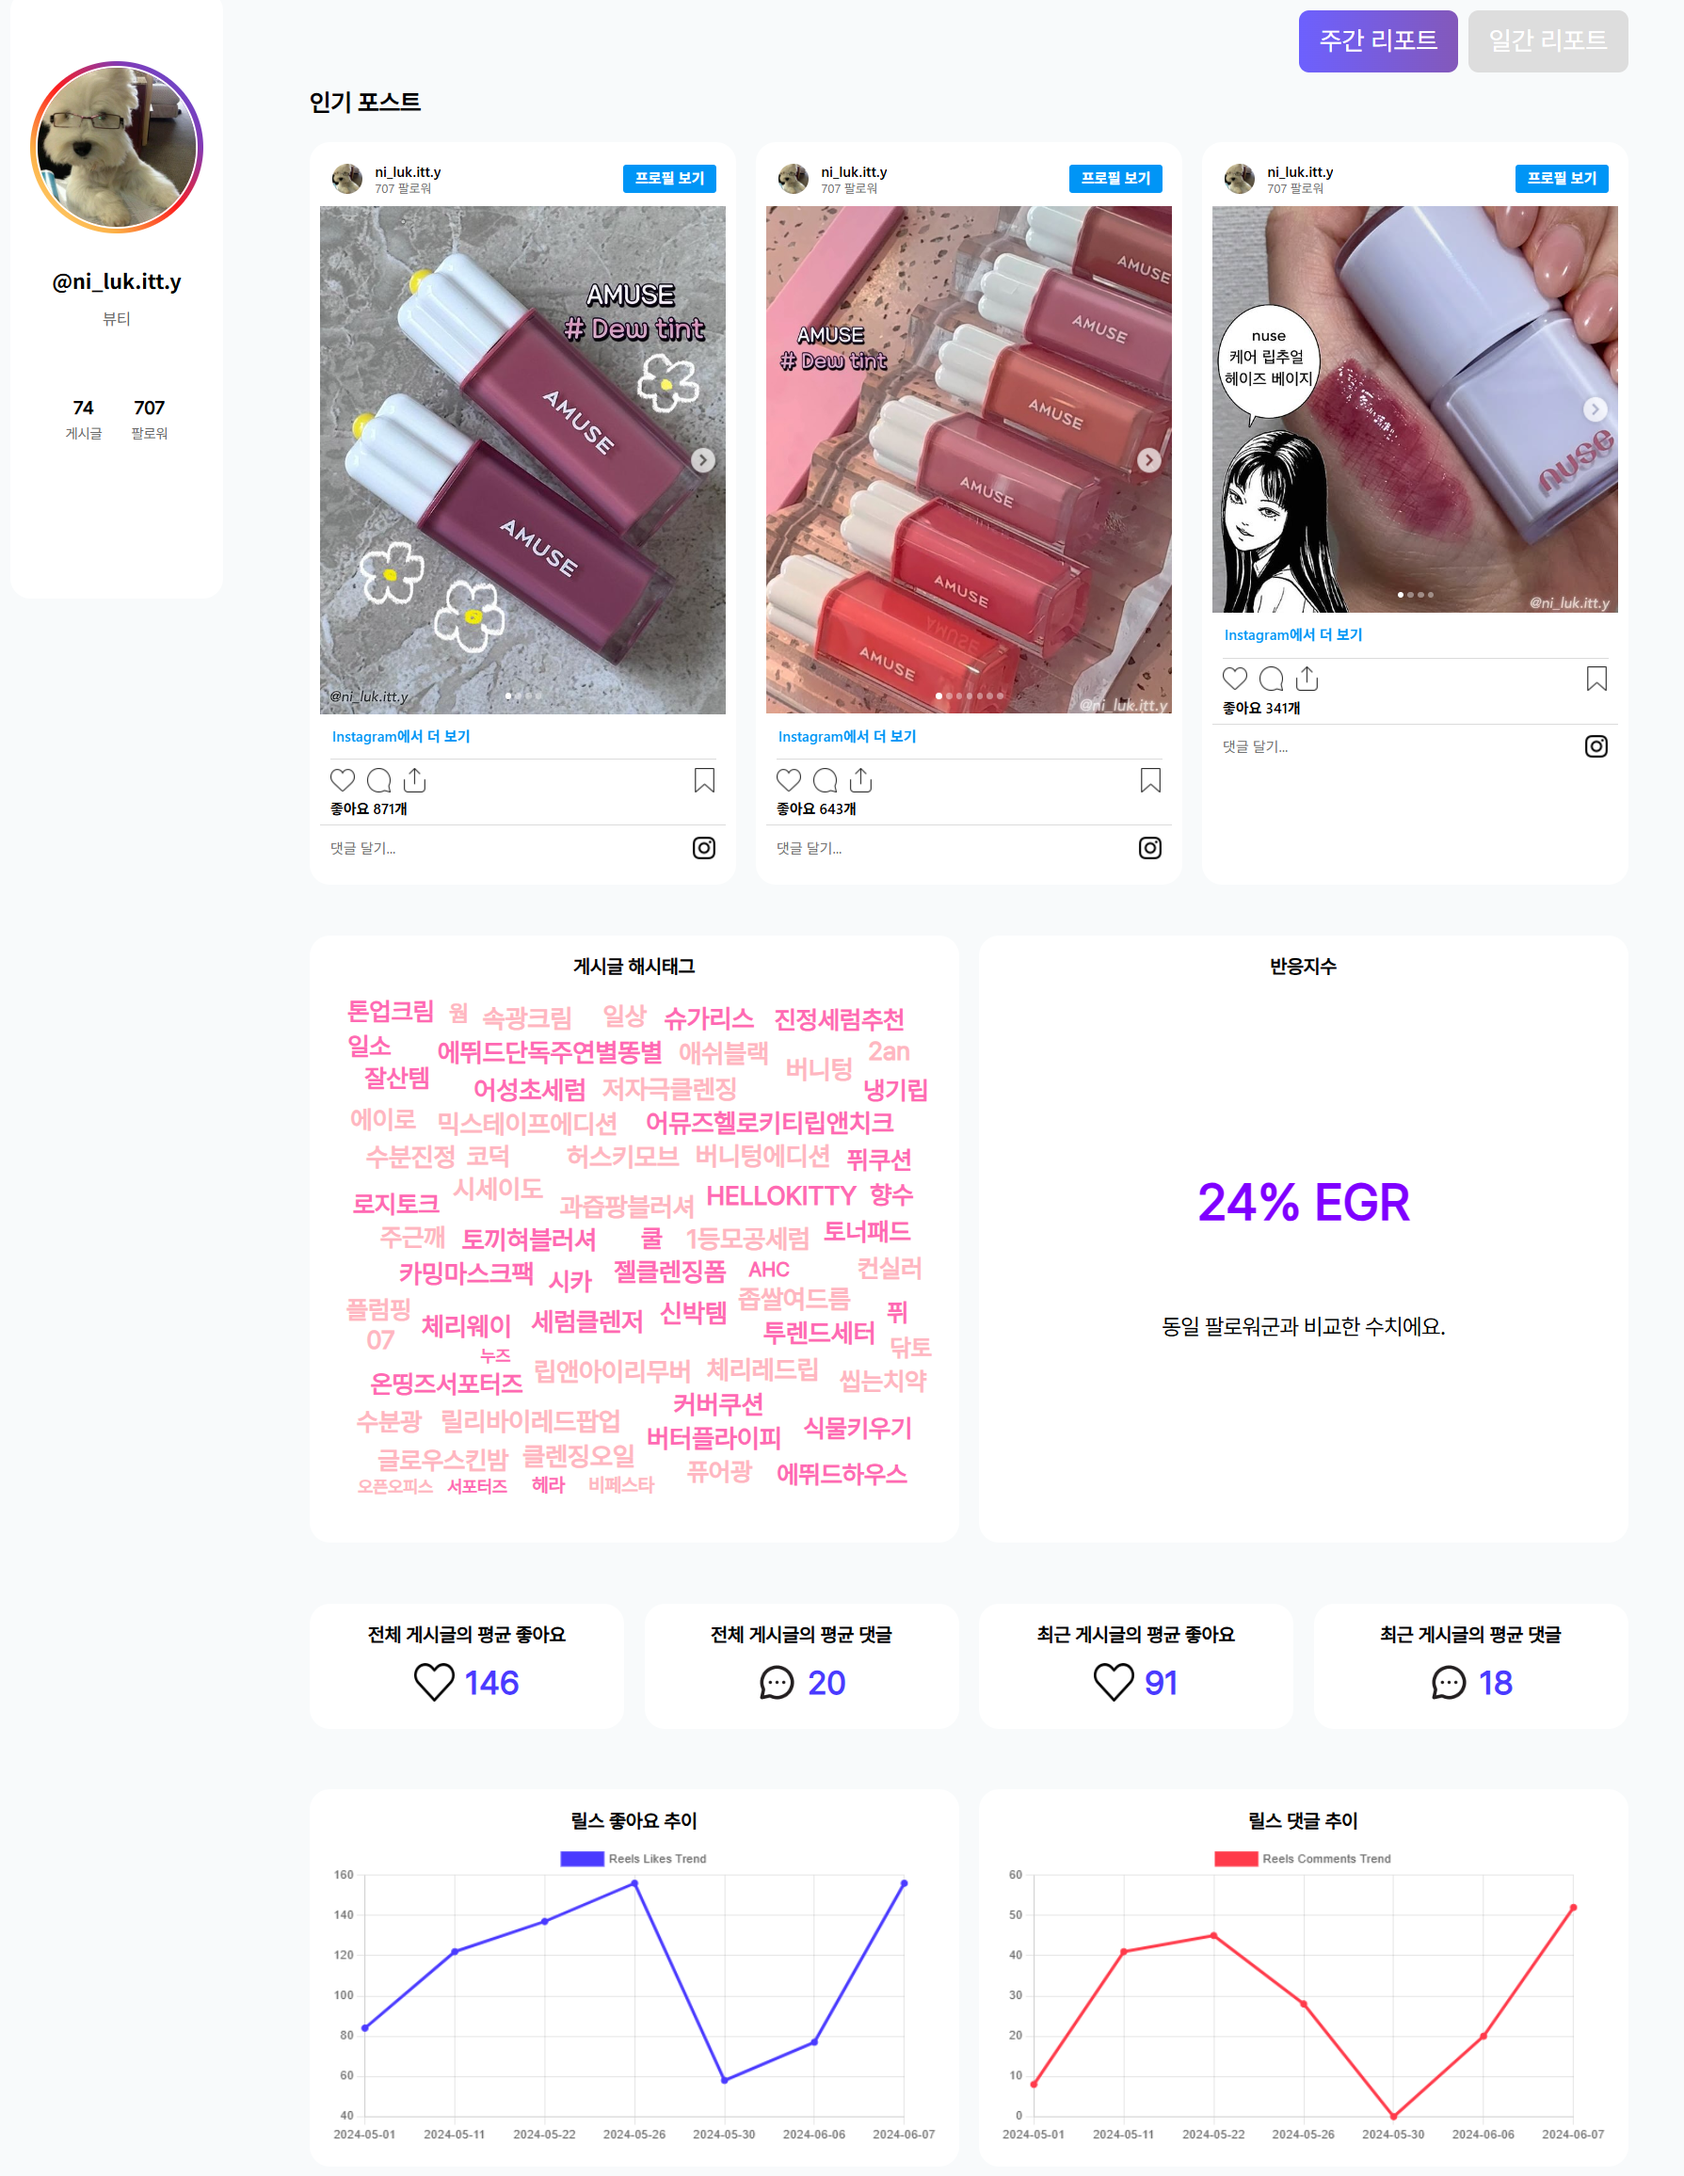
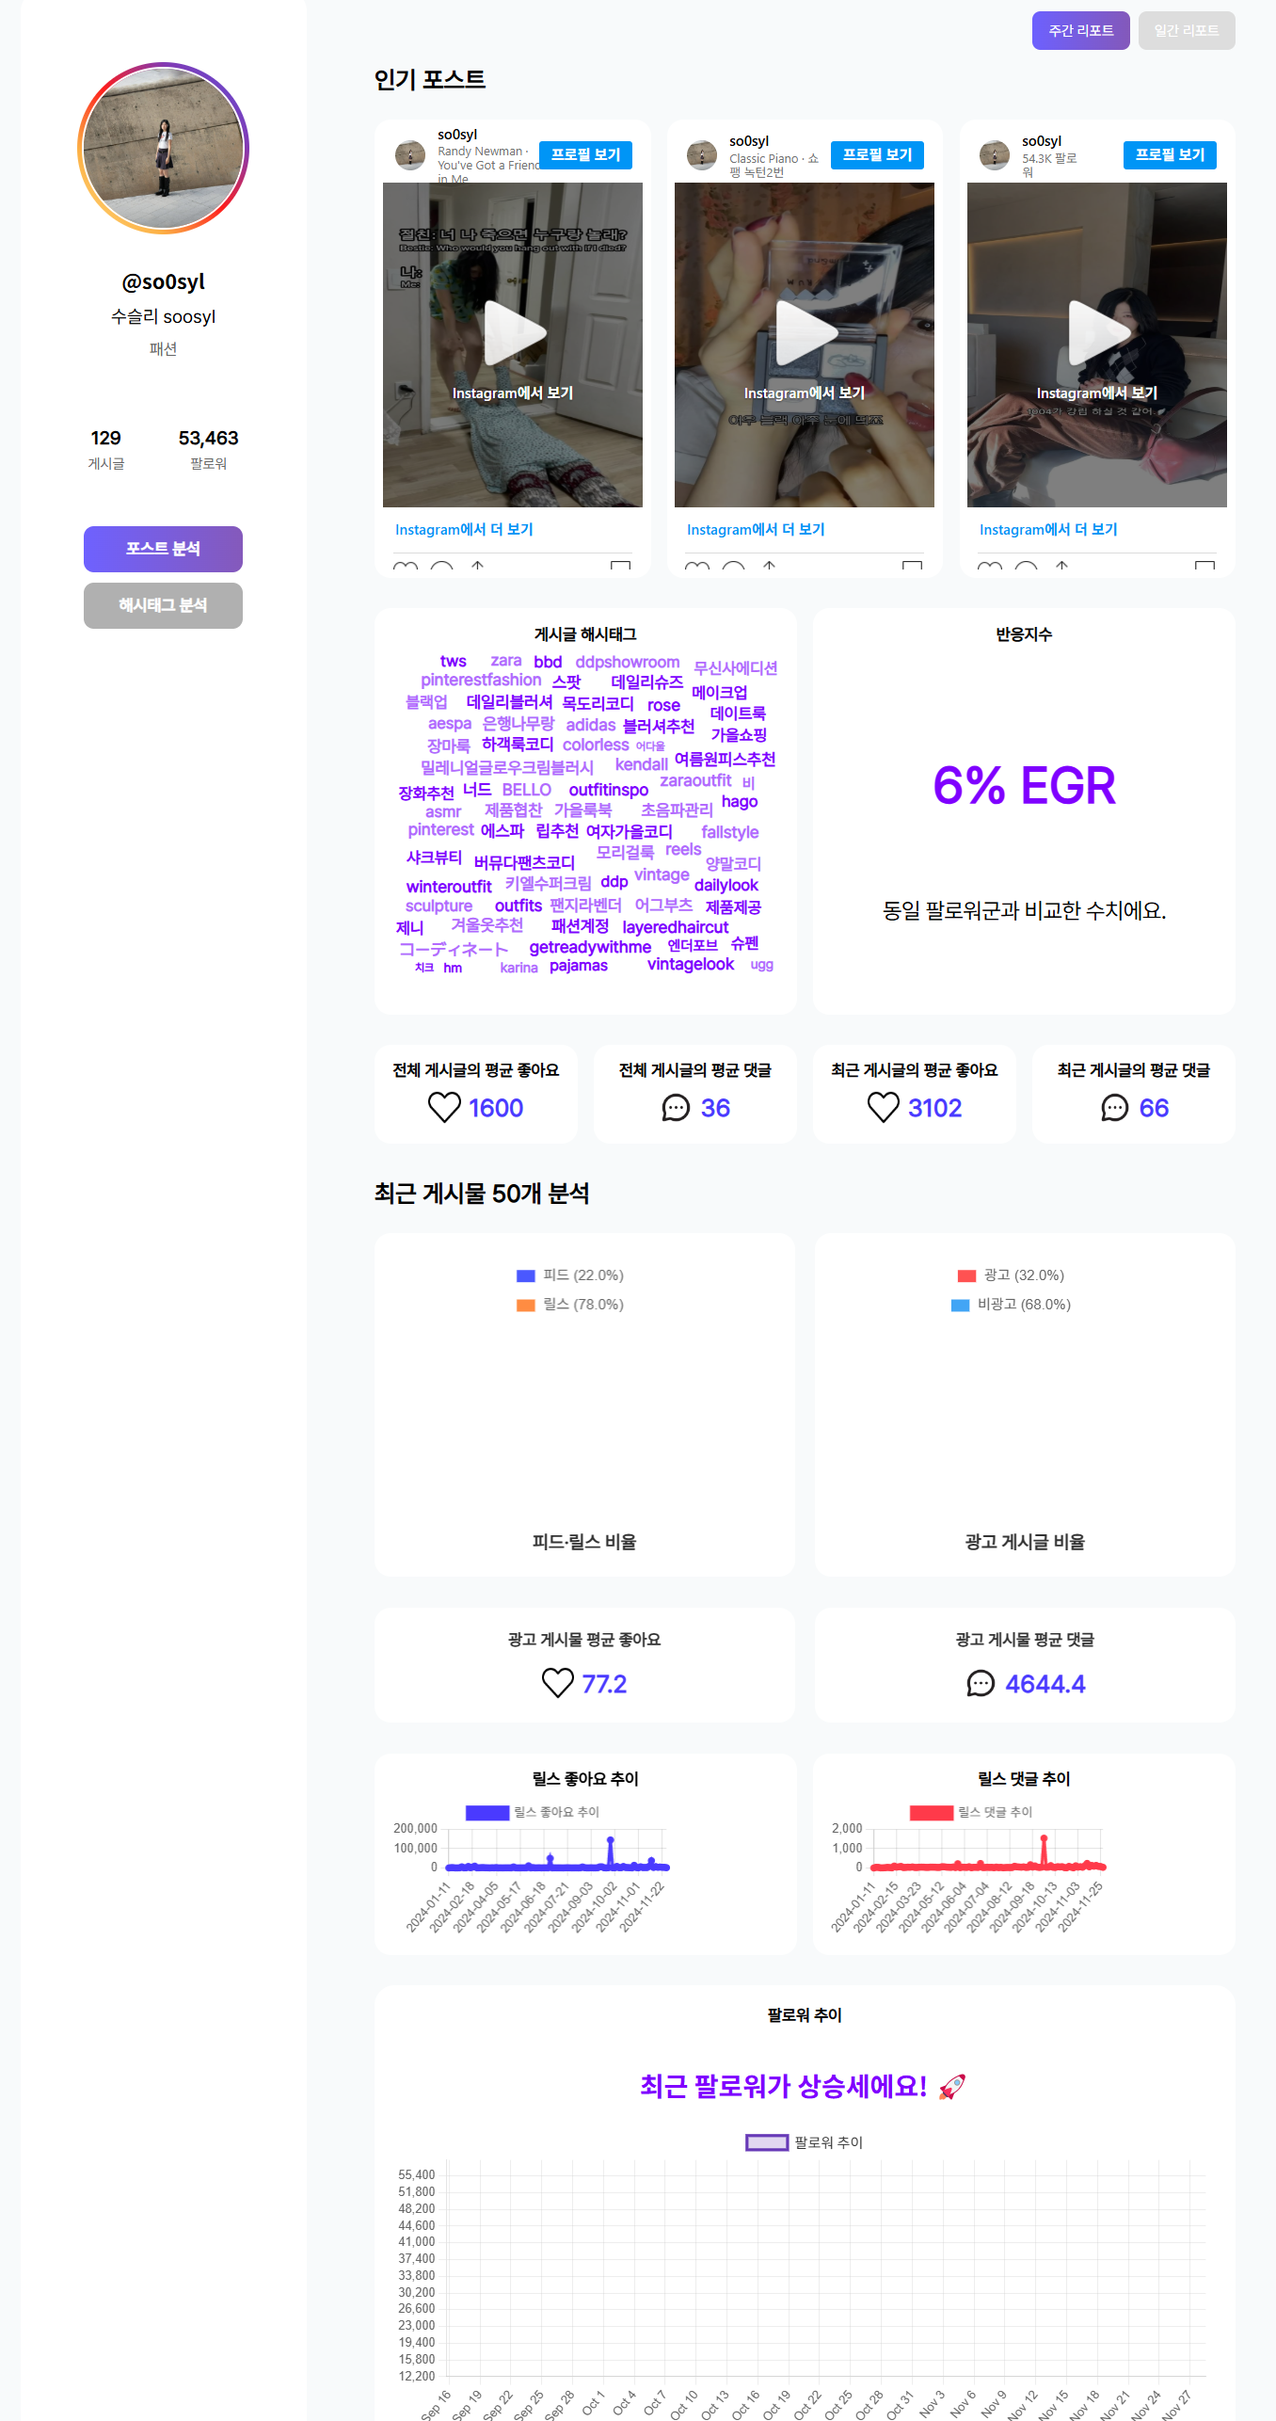
Fefactor : 워드 클라우드 색상 변경

diff --git a/dp-client/src/components/Report/WordCloudComponent.jsx b/dp-client/src/components/Report/WordCloudComponent.jsx
@@ -12,7 +12,7 @@ const WordCloudComponent = ({ wordCloudData }) => {
                 data={wordCloudData.map((word, index) => ({
                     ...word,
                     text: word.text,
-                    color: index % 2 === 0 ? '#FF69B4' : '#FFB6C1', // Alternating pink tones
+                    color: index % 2 === 0 ? '#7f00ff' : '#B369FE', // Alternating pink tones
                 }))}
                 font="Pretendard" // Friendly and rounded font
                 fontStyle="normal"
